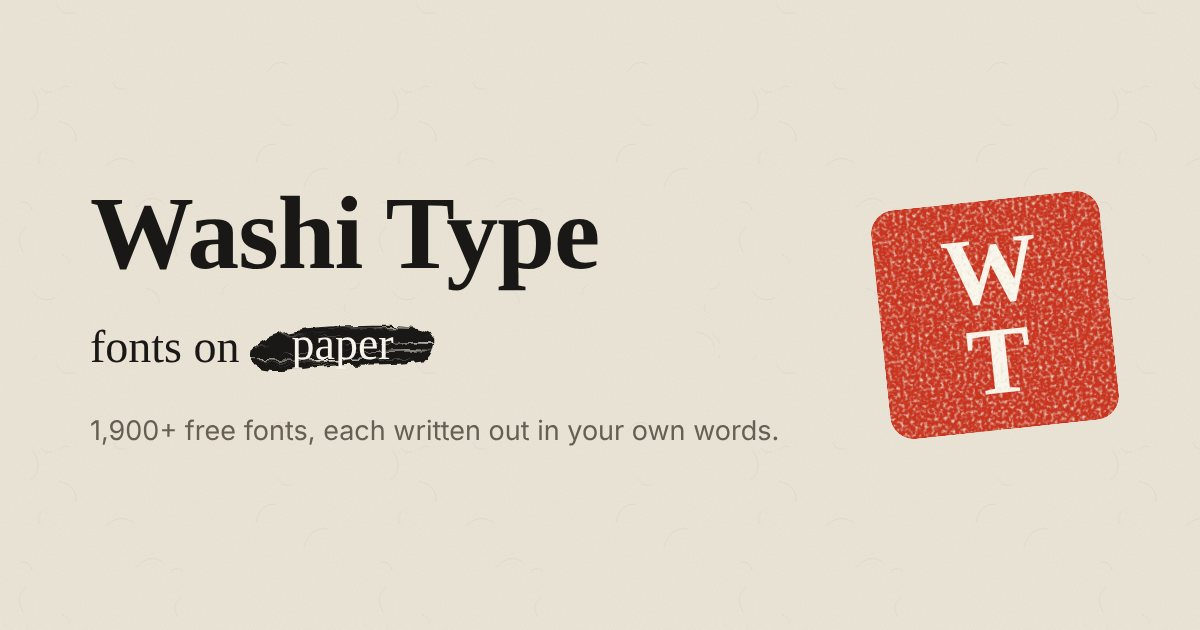
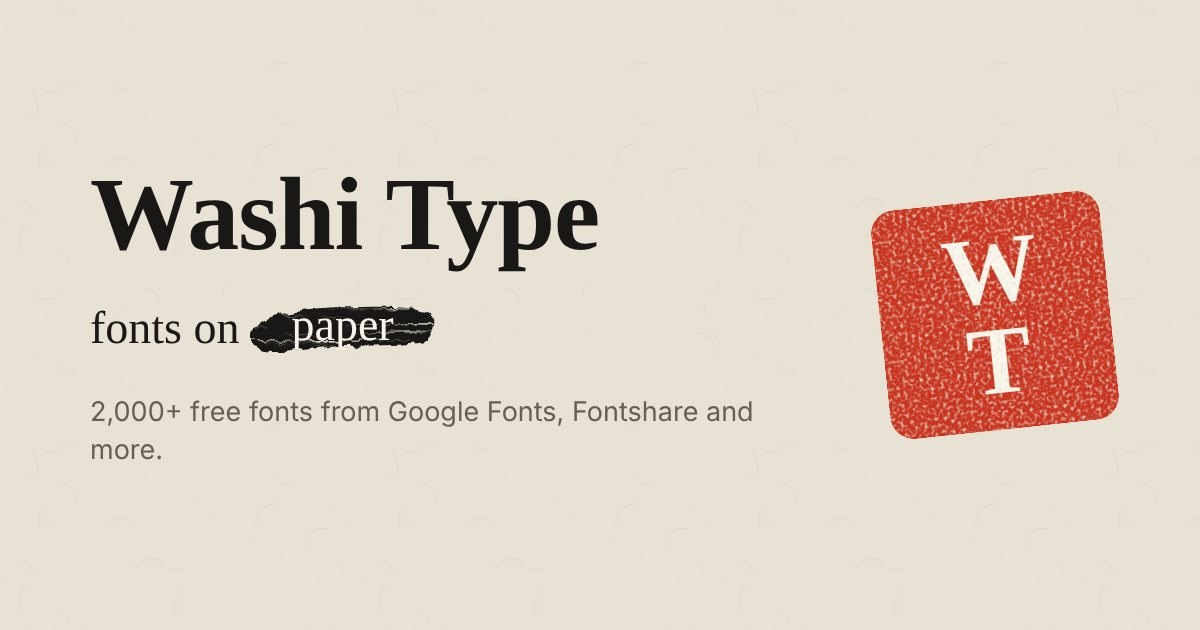
Update link preview text for the larger catalog

Changed region(s): [[0.0617, 0.2714, 0.5242, 0.4825], [0.0617, 0.6333, 0.6475, 0.7238], [0.0617, 0.4825, 0.37, 0.6032]]

diff --git a/index.html b/index.html
@@ -11,7 +11,7 @@
     <meta property="og:type" content="website" />
     <meta property="og:site_name" content="Washi Type" />
     <meta property="og:title" content="Washi Type: fonts on paper" />
-    <meta property="og:description" content="1,900+ free fonts, each written out in your own words." />
+    <meta property="og:description" content="2,000+ free fonts from Google Fonts, Fontshare and open-source foundries, each written out in your own words." />
     <meta property="og:url" content="https://washi-type.vercel.app/" />
     <meta property="og:image" content="https://washi-type.vercel.app/og.jpg" />
     <meta property="og:image:width" content="1200" />
